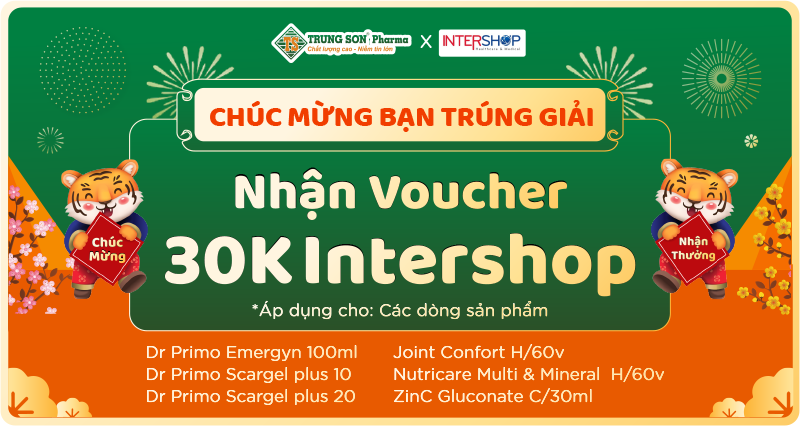
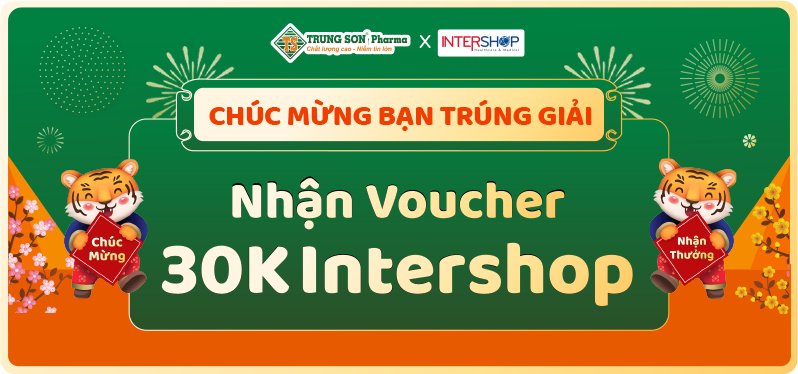
update

diff --git a/html_2021/index.html b/html_2021/index.html
@@ -10,12 +10,12 @@
     <meta name="viewport"
         content="width=device-width, initial-scale=1.0, user-scalable=0, minimum-scale=1.0, maximum-scale=1.0">
     <meta name="format-detection" content="telephone=no">
-    <title>Trung Sơn</title>
-    <meta name="description" content="Trung Sơn">
-    <meta name="keywords" content="Trung Sơn">
+    <title>Trung Sơn - Rung Cây Hái Lộc</title>
+    <meta name="description" content="Trung Sơn - Rung Cây Hái Lộc">
+    <meta name="keywords" content="Trung Sơn - Rung Cây Hái Lộc">
     <meta name="theme-color" content="#fff" />
-    <meta property="og:title" content="Trung Sơn">
-    <meta property="og:description" content="Trung Sơn">
+    <meta property="og:title" content="Trung Sơn - Rung Cây Hái Lộc">
+    <meta property="og:description" content="Trung Sơn - Rung Cây Hái Lộc">
     <meta property="og:type" content="website">
     <meta property="og:image" content="images/thumbnail.jpg">
     <meta property="og:site_name" content="Trung Sơn">
@@ -356,7 +356,7 @@
                                             nhé:</p>
                                         <p class="color__organe">I. CƠ CẤU GIẢI THƯỞNG</p>
                                         <p class="fs-pic">
-                                            <img src="images/pic_tnc.png" alt="">
+                                            <img src="images/pic_tnc.png" alt="pic tnc">
                                         </p>
                                         <p>❖ 10 chỉ vàng <span class="color__green">999.9</span></p>
                                         <p>❖ Hàng ngàn voucher <span class="color__green">100K, 50K, 20K, 10K,
@@ -367,14 +367,12 @@
                                                 RUNG CÂY - THẦN DẦN PHÁT
                                                 LỘC</span></p>
                                         <p><span class="color__organe">III. THỜI GIAN THAM GIA:</span> chương trình diễn
-                                            ra từ ngày 11/01/2022
-                                            đến hết ngày
-                                            10/02/2022.</p>
+                                            ra từ ngày 11/01/2022 đến hết ngày 10/02/2022.</p>
                                         <p>(*) Lưu ý: Thời gian công bố phần thưởng cho người thắng cuộc sẽ diễn ra ngay
-                                            sau khi kết thúc chương trình. </p>
+                                            sau khi kết thúc chương trình.</p>
                                         <p class="color__organe">IV. ĐỐI TƯỢNG THAM GIA:</p>
                                         <p>Tất cả khách hàng có quốc tịch Việt Nam từ 18 tuổi trở lên trong thời gian
-                                            diễn ra chương trình. </p>
+                                            diễn ra chương trình.</p>
                                         <p class="color__organe">V. CÁCH THỨC THAM GIA:</p>
                                         <p>- Khách hàng sau khi mua hàng và thanh toán tại nhà thuốc Trung Sơn Pharma sẽ
                                             được nhận hóa đơn, mỗi mã hóa đơn tương ứng 01 mã số để tham dự chương
@@ -422,7 +420,8 @@
                                             Hóa đơn có chứa mã số chứng từ trúng thưởng, giấy CMND.</p>
                                         <p>- Khách hàng trúng thưởng có thể liên hệ đến Hotline Trung Sơn Pharma (1800
                                             558898) hoặc nhắn tin qua trang Fanpage <a
-                                                href="https://www.facebook.com/nhathuoctrungson">Trung Son Pharma</a> để
+                                                href="https://www.facebook.com/nhathuoctrungson" target="_blank">Trung
+                                                Son Pharma</a> để
                                             xác nhận địa điểm nhận quà
                                         </p>
                                         <p>* Lưu ý: </p>
@@ -461,7 +460,7 @@
                                             lần cho mỗi hóa đơn, số chứng từ.</p>
                                         <p>- Một khách hàng được tham dự nhiều mã số và có nhiều hơn 1 cơ hội trúng
                                             thưởng tương ứng với nhiều mã số khác nhau.</p>
-                                        <p class="color__organe">VII. THỂ LỆ CHUNG: </p>
+                                        <p class="color__organe">VII. THỂ LỆ CHUNG:</p>
                                         <p>- Thời gian tham gia trò chơi hợp lệ là từ 00:00 ngày 11/01/2022 đến 23:59
                                             ngày 10/02/2022. BTC không giải quyết bất kỳ trường hợp nào nằm ngoài khung
                                             giờ này. </p>
@@ -472,22 +471,33 @@
                                             là quyết định cuối cùng. </p>
                                         <p>- Giải thưởng Voucher không được chuyển nhượng, quy đổi thành tiền mặt hay
                                             hàng hóa khác, không có giá trị sử dụng sau ngày 28/02</p>
-                                        <p>- Voucher chỉ áp dụng cho các sản phẩm: Dr Primo Emergyn 100ml, Dr Primo
-                                            Scargel plus 10, Dr Primo Scargel plus 20, Joint Confort H/60v, Nutricare
-                                            Multi & Mineral H/60v, ZinC Gluconate C/30ml</p>
+                                        <p>- Voucher chỉ áp dụng cho các sản phẩm thuộc thương hiệu: Tâm Quốc Tế,
+                                            Intershop và MHD, đặt hàng online ngay tại:</p>
+                                        <p><a href="https://trungsoncare.com/collections/intershop/"
+                                                target="_blank">https://trungsoncare.com/collections/intershop/</a>
+                                        </p>
+                                        <p><a href="https://trungsoncare.com/collections/tam-quoc-te/"
+                                                target="_blank">https://trungsoncare.com/collections/tam-quoc-te/</a>
+                                        </p>
+                                        <p><a href="https://trungsoncare.com/collections/mhd/"
+                                                target="_blank">https://trungsoncare.com/collections/mhd/</a>
+                                        </p>
+                                        <p><a href="https://trungsoncare.com/collections/san-pham-khuyen-mai"
+                                                target="_blank">https://trungsoncare.com/collections/san-pham-khuyen-mai</a>
+                                        </p>
                                         <p>* Khách hàng vui lòng chụp lại màn hình hoặc lưu lại mã voucher để sử dụng
-                                            khi mua hàng lần sau hoặc có thể đặt online tại liên kết này: <a
-                                                href="https://trungsoncare.com/collections/intershop/">https://trungsoncare.com/collections/intershop/</a>
+                                            khi mua hàng lần sau hoặc có thể đặt online tại liên kết này: </p>
+                                        <p><a href="https://trungsoncare.com/collections/intershop/"
+                                                target="_blank">https://trungsoncare.com/collections/intershop/</a>
                                         </p>
                                         <p>- Giải thưởng Voucher không áp dụng khi mua thuốc hoặc các sản phẩm Eco
                                             Greens</p>
                                         <p>- Giải thưởng Voucher được sử dụng tại tất cả các hệ thống nhà thuốc Trung
-                                            Sơn Pharma, hệ thống online <a
-                                                href="https://trungsoncare.com/">https://trungsoncare.com/</a> và App
-                                            TrungSơnCare</p>
+                                            Sơn Pharma, hệ thống online <a href="https://trungsoncare.com/"
+                                                target="_blank">https://trungsoncare.com/</a> và App TrungSơnCare</p>
                                         <p>- Để biết thêm thông tin hoặc giải đáp thắc mắc liên quan đến cuộc thi, xin
                                             liên hệ trực tiếp BTC bằng cách gửi tin nhắn đến hộp thư của Fanpage <a
-                                                href="https://www.facebook.com/nhathuoctrungson/"> Trung
+                                                href="https://www.facebook.com/nhathuoctrungson/" target="_blank"> Trung
                                                 Sơn Pharma.</a></p>
                                     </div>
                                 </div>
@@ -939,12 +949,14 @@
                         <img class="fs-sp" src="images/prize/5k-trung-son-sp.png" alt="trúng quà">
                     </div>
                     <div class="win__brief">
-                        <span class="code__win">TRUNGSON5K</span>
+                        <span class="code__win" id="code__win">TRUNGSON5K</span>
                         <a href="javascript:void(0);" class="note__win">Nhớ lưu voucher để sử dụng trong lần mua hàng
                             tiếp theo nhé</a>
+                        <a class="link__buy" href="javascript:void(0);">Mua hàng tại đây</a>
                     </div>
                     <div class="gold__brief">
-                        <a class="gold__txt">Liên hệ Fanpage Trung Sơn Pharma để nhận phần quà của bạn nhé</a>
+                        <span class="note__take--gold">Liên hệ Fanpage Trung Sơn Pharma để nhận phần quà của bạn
+                            <br>Chụp màn hình và giữ lại hóa đơn bạn nhé</span>
                     </div>
                 </div>
             </div>

diff --git a/html_2021/css/popup.css b/html_2021/css/popup.css
@@ -68,7 +68,7 @@
 	top:0;
 	width:100vw;
 	height:100vh;
-	background-color:rgba(14, 76, 45, 0.8);
+	background-color:rgba(14, 76, 45, 0.85);
 	z-index:50;
 	text-align:center;
 	opacity: 0;
@@ -105,11 +105,6 @@
 	transform: translate(8%, -7%) scale(0.1);
 	-webkit-transition: transform 0.5s ease-in-out 0.1s;
 	transition: transform 0.5s ease-in-out 0.1s;
-	-webkit-user-select: none;
-	-moz-user-select: none; 
-	-ms-user-select: none; 
-	-o-user-select: none;
-	user-select: none;
 }
 .modal.active .modal_inr{
 	-webkit-transform: translate(0,0) scale(1);
@@ -634,12 +629,39 @@
     text-align: center;
 	-webkit-border-radius: 5px;
     border-radius: 5px;
+	cursor: pointer;
+	text-decoration: underline;
+	z-index: 9999;
+}
+.code__win::before{
+	content: 'Đã sao chép mã code';
+	position: absolute;
+	top: 0;
+	left: 0;
+	width: 100%;
+	height: 100%;
+	background-color: #d21e00;
+	font-family: 'San Francisco Text';
+    font-weight: bold;
+    font-style: normal;
+	-webkit-border-radius: 5px;
+    border-radius: 5px;
+	opacity: 0;
+	visibility: hidden;
+	-webkit-transition: opacity 0.3s ease-in-out, visibility 0.3s linear;
+	transition: opacity 0.3s ease-in-out, visibility 0.3s linear;
+}
+.code__win.active::before{
+	opacity: 1;
+	visibility: visible;
+	-webkit-transition: none;
+	transition: none;
 }
 .note__win{
 	position: absolute;
     display: block;
     bottom: 2.8%;
-	left: 42%;
+    left: 42.2%;
     font-size: 0.7vw;
     color: #fff;
     font-family: 'San Francisco Text';
@@ -662,6 +684,33 @@
     text-align: center;
     line-height: 1.2;
 	z-index: 3;
+}
+.link__buy{
+	position: absolute;
+    bottom: -2vw;
+    left: 50%;
+    z-index: 1;
+    font-size: 1.3vw;
+    color: #fff;
+	font-family: 'San Francisco Text';
+    font-weight: bold;
+    font-style: normal;
+    text-decoration: underline;
+	-webkit-transform: translateX(-50%);
+    transform: translateX(-50%);
+}
+.note__take--gold{
+	position: absolute;
+    top: -4vw;
+    left: 0;
+    z-index: 1;
+    width: 100%;
+    font-size: 1.3vw;
+    color: #fff;
+    font-family: 'San Francisco Text';
+    font-weight: bold;
+    font-style: normal;
+    text-align: center;
 }
 
 
@@ -1014,20 +1063,33 @@
 	}
 
 	.gold__txt {
-		top: 3%;
-		font-size: 2.5vw;
+		top: 5%;
+		font-size: 2.3vw;
+		width: 75vw;
+		left: 50%;
+		transform: translateX(-50%);
 	}
 	.code__win{
-		bottom: 2vw;
-		left: 31vw;
-		width: 33vw;
-		font-size: 3vw;
+		bottom: -3vw;
+		left: 50%;
+		width: 50vw;
+		font-size: 4.3vw;
+		-webkit-transform: translateX(-50%);
+		transform: translateX(-50%);
 	}
 	.note__win {
-		bottom: -5vw;
+		bottom: -9vw;
 		left: 0;
 		font-size: 2.8vw;
 		width: 100%;
+	}
+	.link__buy {
+		bottom: -17vw;
+		font-size: 3.8vw;
+	}
+	.note__take--gold {
+		top: -10vw;
+		font-size: 3vw;
 	}
 } 
 

diff --git a/html_2021/js/main.js b/html_2021/js/main.js
@@ -200,6 +200,24 @@ function fsEvent() {
 	// scrollResult();
 	// scrollTnc();
 	actionClickToShake();
+
+	$(document).on('click touch', '.code__win', function () {
+		var codeCopy = document.getElementById('code__win');
+		copyCode(codeCopy);
+		$('.code__win').addClass('active');
+		setTimeout(function () {
+			$('.code__win').removeClass('active');
+		}, 700)
+	});
+
+}
+
+function copyCode(element) {
+	var $temp = $("<input>");
+	$("body").append($temp);
+	$temp.val($(element).text()).select();
+	document.execCommand("copy");
+	$temp.remove();
 }
 
 
@@ -257,6 +275,9 @@ function actionClickToShake() {
 		// 	countClick = 2;
 		// }
 		$('.tree__pic_img').shake();
+		$('.tree__pic_img').addClass('none-active');
+		$('.but__shake--tree').addClass('none-active');
+		$('.tree__pic ').addClass('none-active');
 		setTimeout(function () {
 			playAudioGold();
 			$('.modal').addClass('active');
@@ -264,6 +285,9 @@ function actionClickToShake() {
 			$('.but__shake--tree').addClass('no-action');
 			$('.tree__pic').addClass('no-action');
 			$('.popup-overlay').fadeOut();
+			$('.tree__pic_img').removeClass('none-active');
+			$('.but__shake--tree').removeClass('none-active');
+			$('.tree__pic ').removeClass('none-active');
 		}, 500)
 	});
 }
@@ -321,10 +345,10 @@ function fsSlider() {
 			watchOverflow: true,
 			slidesPerView: 1,
 			slidesPerGroup: 1,
-			// autoplay: {
-			// 	delay: 3000,
-			// 	disableOnInteraction: false,
-			// },
+			autoplay: {
+				delay: 5000,
+				disableOnInteraction: false,
+			},
 			on: {
 				init: function () {
 				}, transitionStart: function () {

diff --git a/html_2021/css/home.css b/html_2021/css/home.css
@@ -432,6 +432,7 @@
     font-family: 'San Francisco Text';
     font-weight: bold;
     font-style: normal;
+    text-transform: uppercase;
 }
 .info-product p{
     font-size: 1.4rem;
@@ -997,6 +998,10 @@
 .no-action{
     pointer-events: none !important;
     opacity: 0.5;
+}
+
+.none-active{
+    pointer-events: none !important;
 }
 
 /* Faci BOx */
